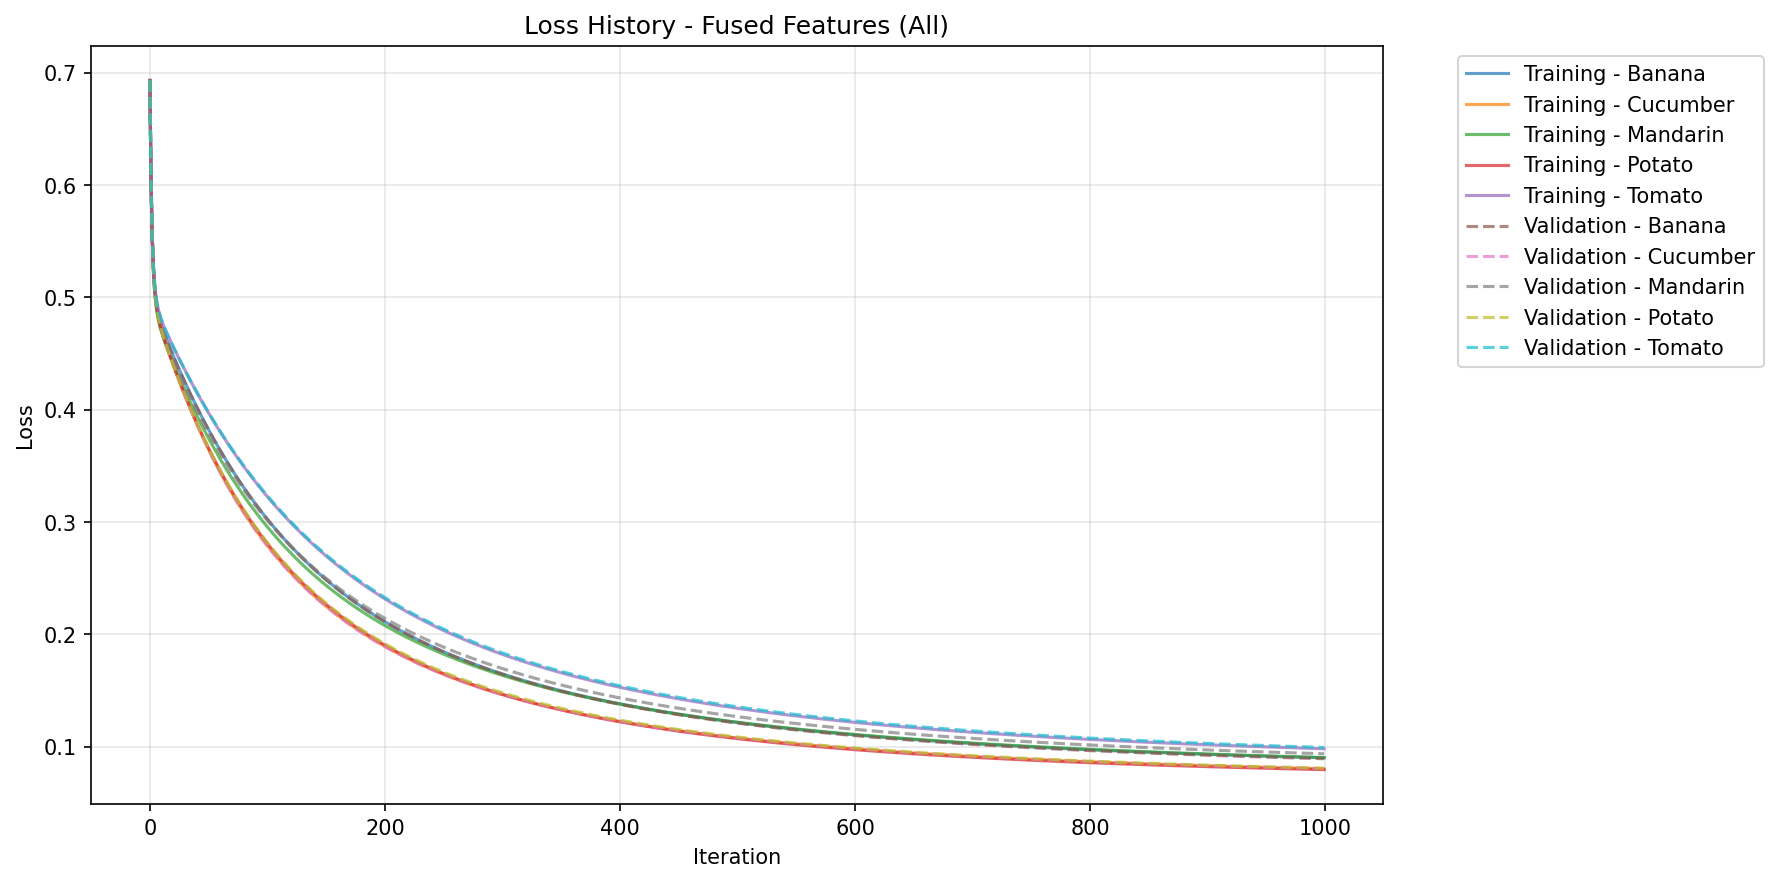
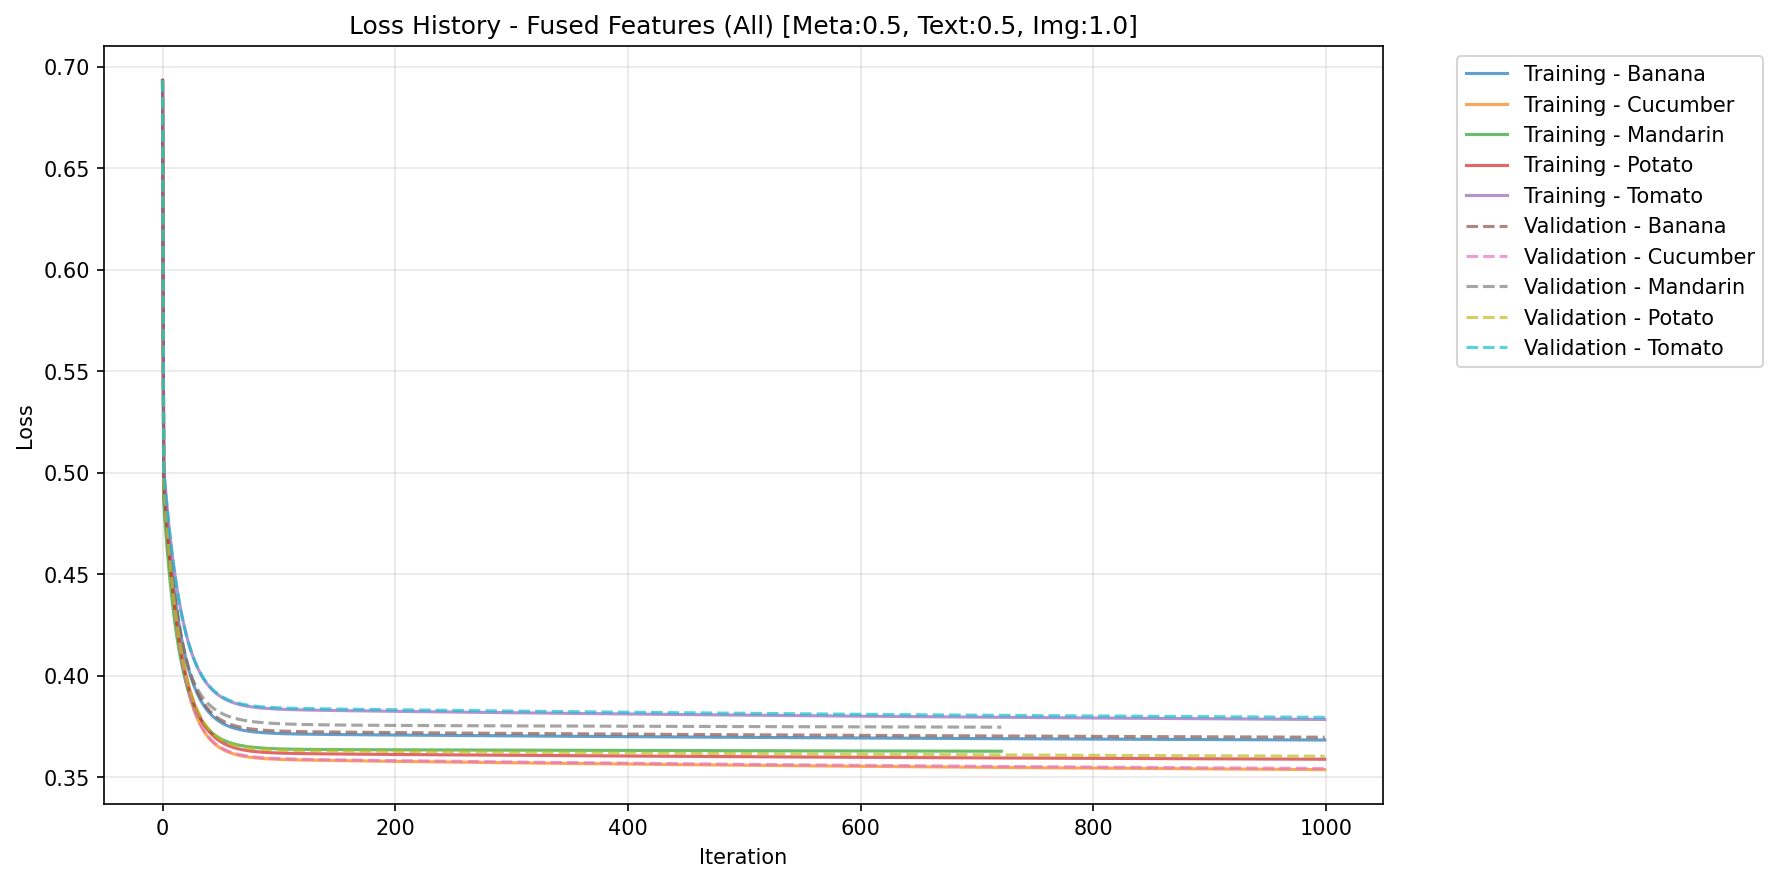
Weight calculation added

diff --git a/src/logistic_regression/train_logistic_regression.py b/src/logistic_regression/train_logistic_regression.py
@@ -30,11 +30,16 @@ DIMS_TEXT = 384
 DIMS_IMG = 285
 
 # Model hyperparameters
-LEARNING_RATE = 0.01
+LEARNING_RATE = 0.1
 MAX_ITER = 1000
 TOLERANCE = 1e-6
 REGULARIZATION = 'l2'
-LAMBDA_REG = 0.01
+LAMBDA_REG = 0.1  # Increased from 0.01 to reduce overfitting risk
+
+# Fused model feature weights (only applied to fused model) 
+FUSED_WEIGHT_METADATA = 0.5
+FUSED_WEIGHT_TEXT = 0.5 
+FUSED_WEIGHT_IMAGE = 1.0
 
 # Train/Val split
 VAL_SIZE = 500  # 500 samples for validation (as per assignment)
@@ -156,9 +161,28 @@ X_image_train = X_image[indices_train]
 X_image_val = X_image[indices_val]
 X_image_test = X_image[indices_test]
 
-X_fused_train = X_fused[indices_train]
-X_fused_val = X_fused[indices_val]
-X_fused_test = X_fused[indices_test]
+print(f"\n--- Applying weights to fused features ---")
+print(f"  Metadata weight: {FUSED_WEIGHT_METADATA}")
+print(f"  Text weight:     {FUSED_WEIGHT_TEXT}")
+print(f"  Image weight:    {FUSED_WEIGHT_IMAGE}")
+
+# Weight each feature set
+X_meta_weighted_train = X_meta_train * FUSED_WEIGHT_METADATA
+X_meta_weighted_val = X_meta_val * FUSED_WEIGHT_METADATA
+X_meta_weighted_test = X_meta_test * FUSED_WEIGHT_METADATA
+
+X_text_weighted_train = X_text_train * FUSED_WEIGHT_TEXT
+X_text_weighted_val = X_text_val * FUSED_WEIGHT_TEXT
+X_text_weighted_test = X_text_test * FUSED_WEIGHT_TEXT
+
+X_image_weighted_train = X_image_train * FUSED_WEIGHT_IMAGE
+X_image_weighted_val = X_image_val * FUSED_WEIGHT_IMAGE
+X_image_weighted_test = X_image_test * FUSED_WEIGHT_IMAGE
+
+# Combine weighted features
+X_fused_train = np.hstack([X_meta_weighted_train, X_text_weighted_train, X_image_weighted_train])
+X_fused_val = np.hstack([X_meta_weighted_val, X_text_weighted_val, X_image_weighted_val])
+X_fused_test = np.hstack([X_meta_weighted_test, X_text_weighted_test, X_image_weighted_test])
 
 # ==========================================
 # 4. TRAIN MODELS FOR EACH FEATURE SET
@@ -190,8 +214,13 @@ feature_sets = {
         'X_train': X_fused_train,
         'X_val': X_fused_val,
         'X_test': X_fused_test,
-        'name': 'Fused Features (All)',
-        'dims': X_fused.shape[1]
+        'name': f'Fused Features (All) [Meta:{FUSED_WEIGHT_METADATA}, Text:{FUSED_WEIGHT_TEXT}, Img:{FUSED_WEIGHT_IMAGE}]',
+        'dims': X_fused_train.shape[1],
+        'weights': {
+            'metadata': FUSED_WEIGHT_METADATA,
+            'text': FUSED_WEIGHT_TEXT,
+            'image': FUSED_WEIGHT_IMAGE
+        }
     }
 }
 
@@ -303,7 +332,12 @@ split_data = {
     'y_train': y_train,
     'y_val': y_val,
     'y_test': y_test,
-    'feature_sets': feature_sets
+    'feature_sets': feature_sets,
+    'fused_weights': {
+        'metadata': FUSED_WEIGHT_METADATA,
+        'text': FUSED_WEIGHT_TEXT,
+        'image': FUSED_WEIGHT_IMAGE
+    }
 }
 split_path = os.path.join(OUTPUT_FOLDER, 'split_data.pkl')
 with open(split_path, 'wb') as f:
